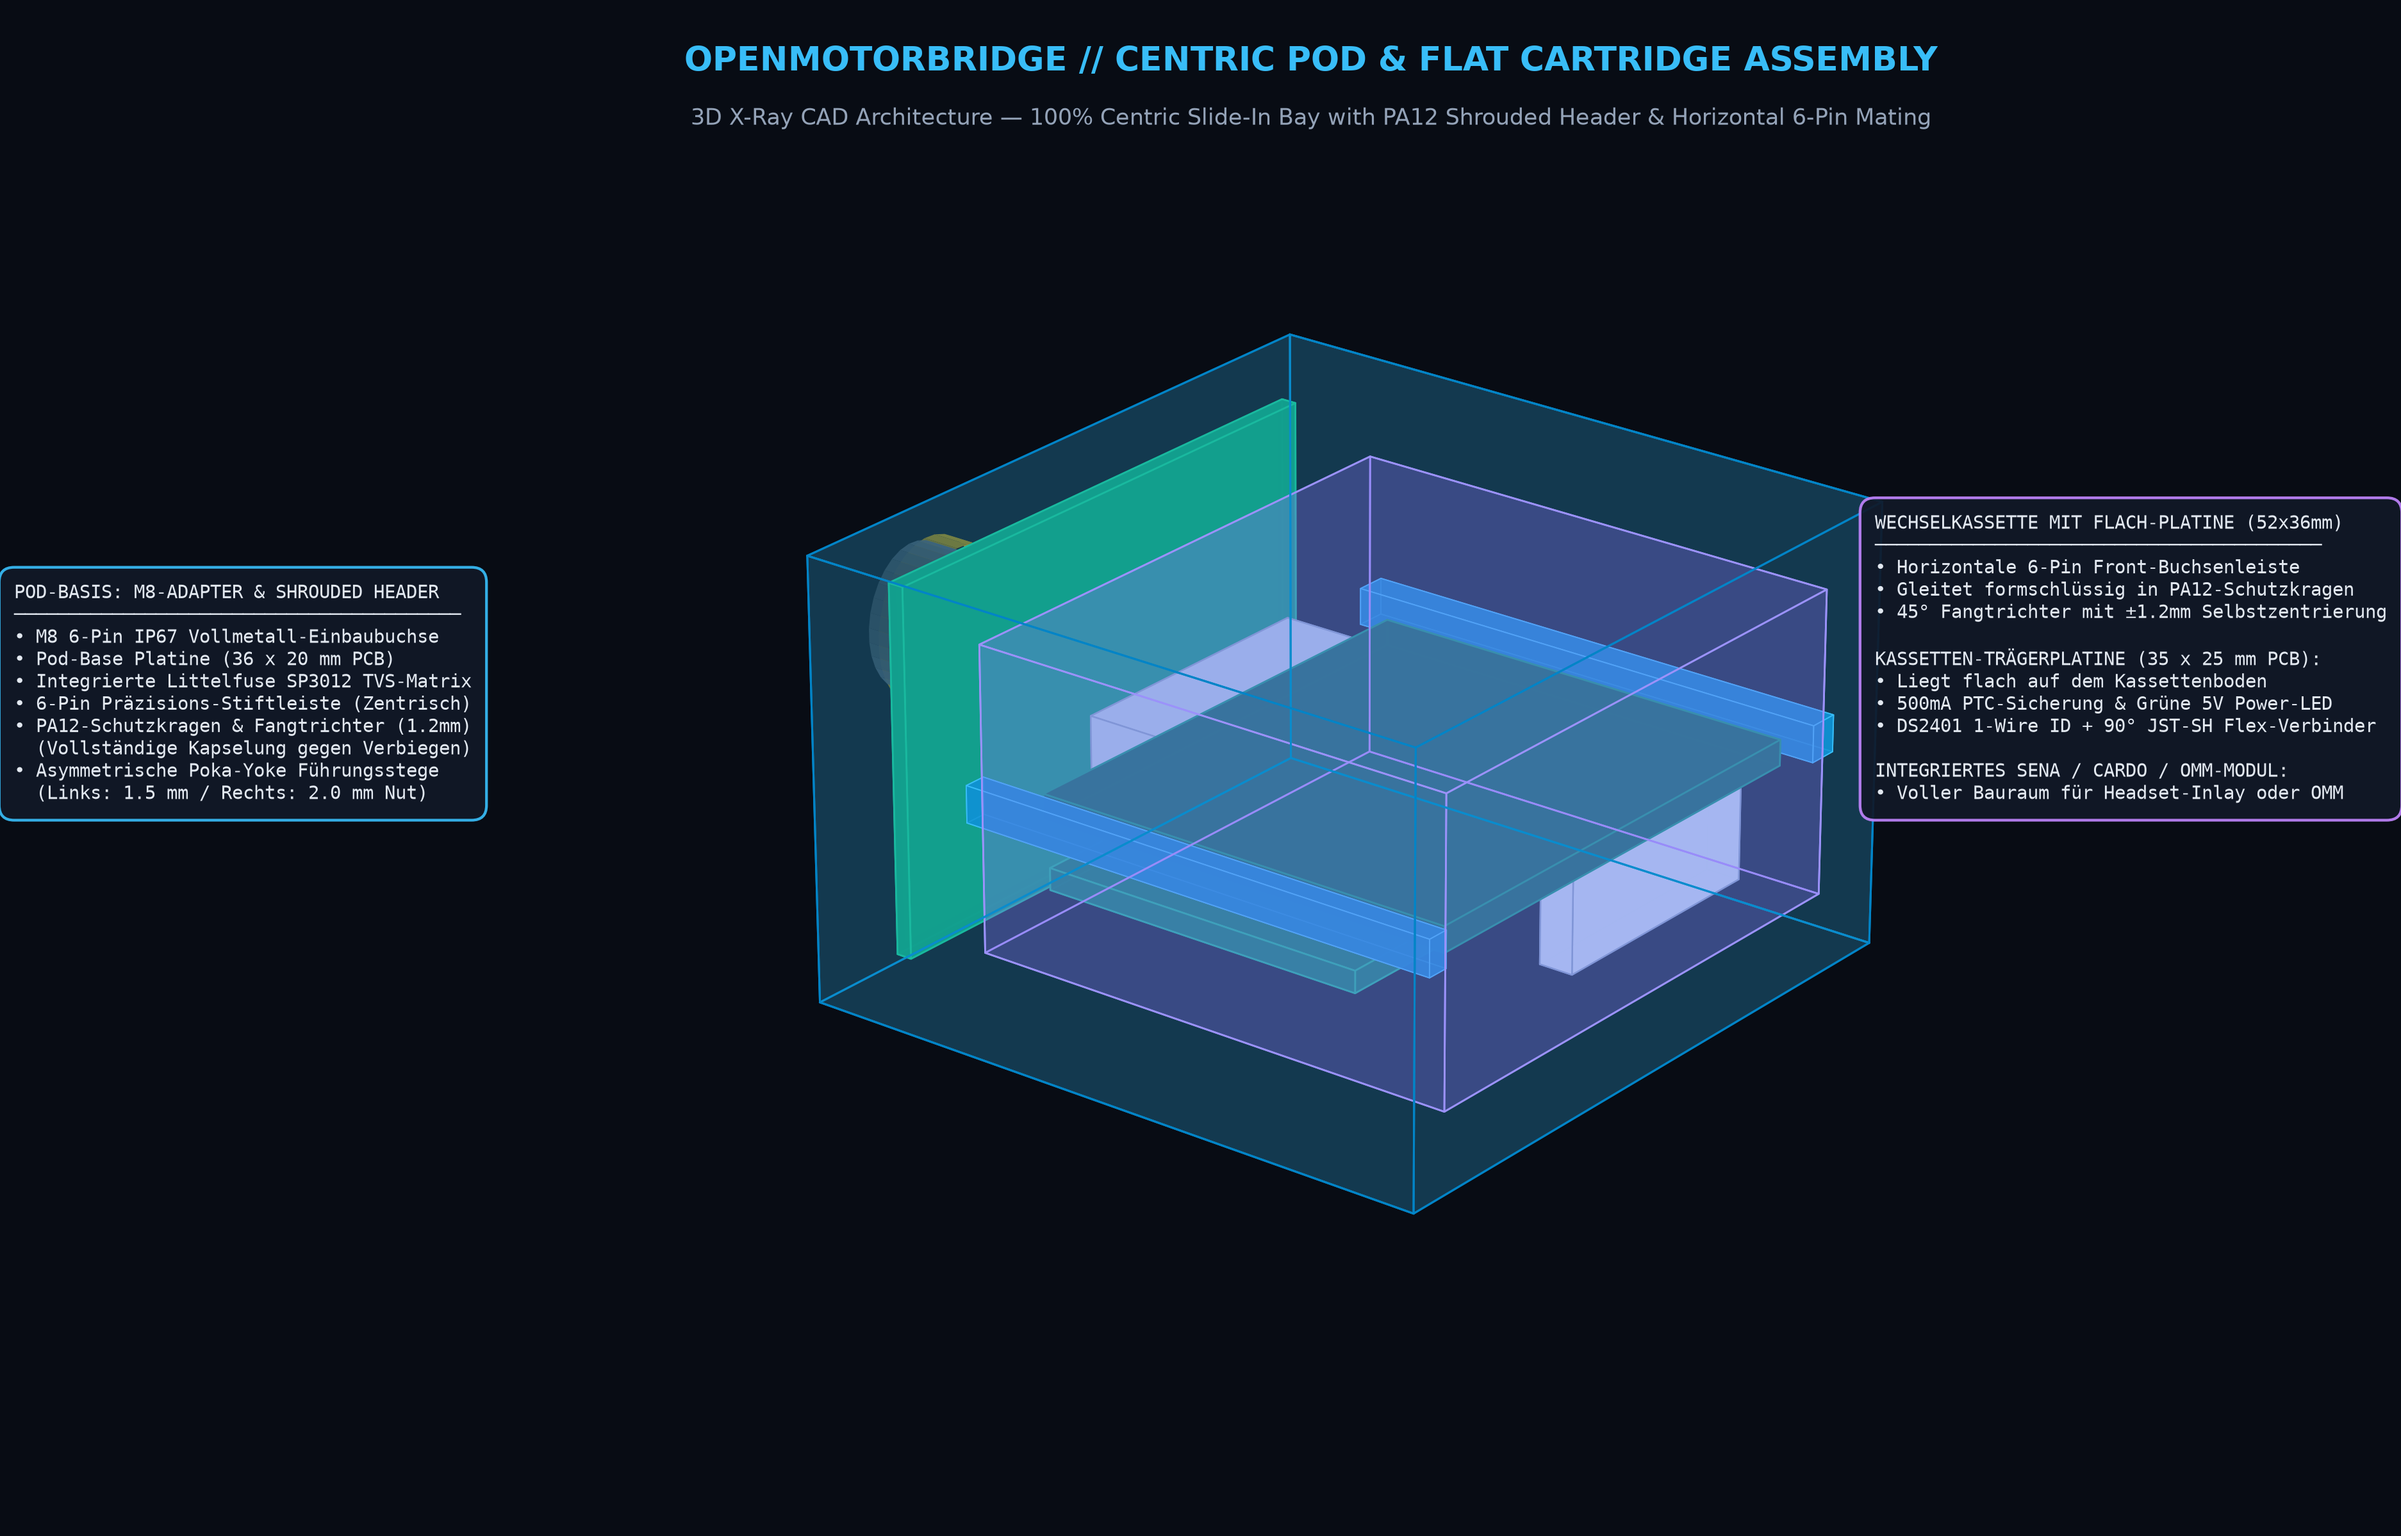
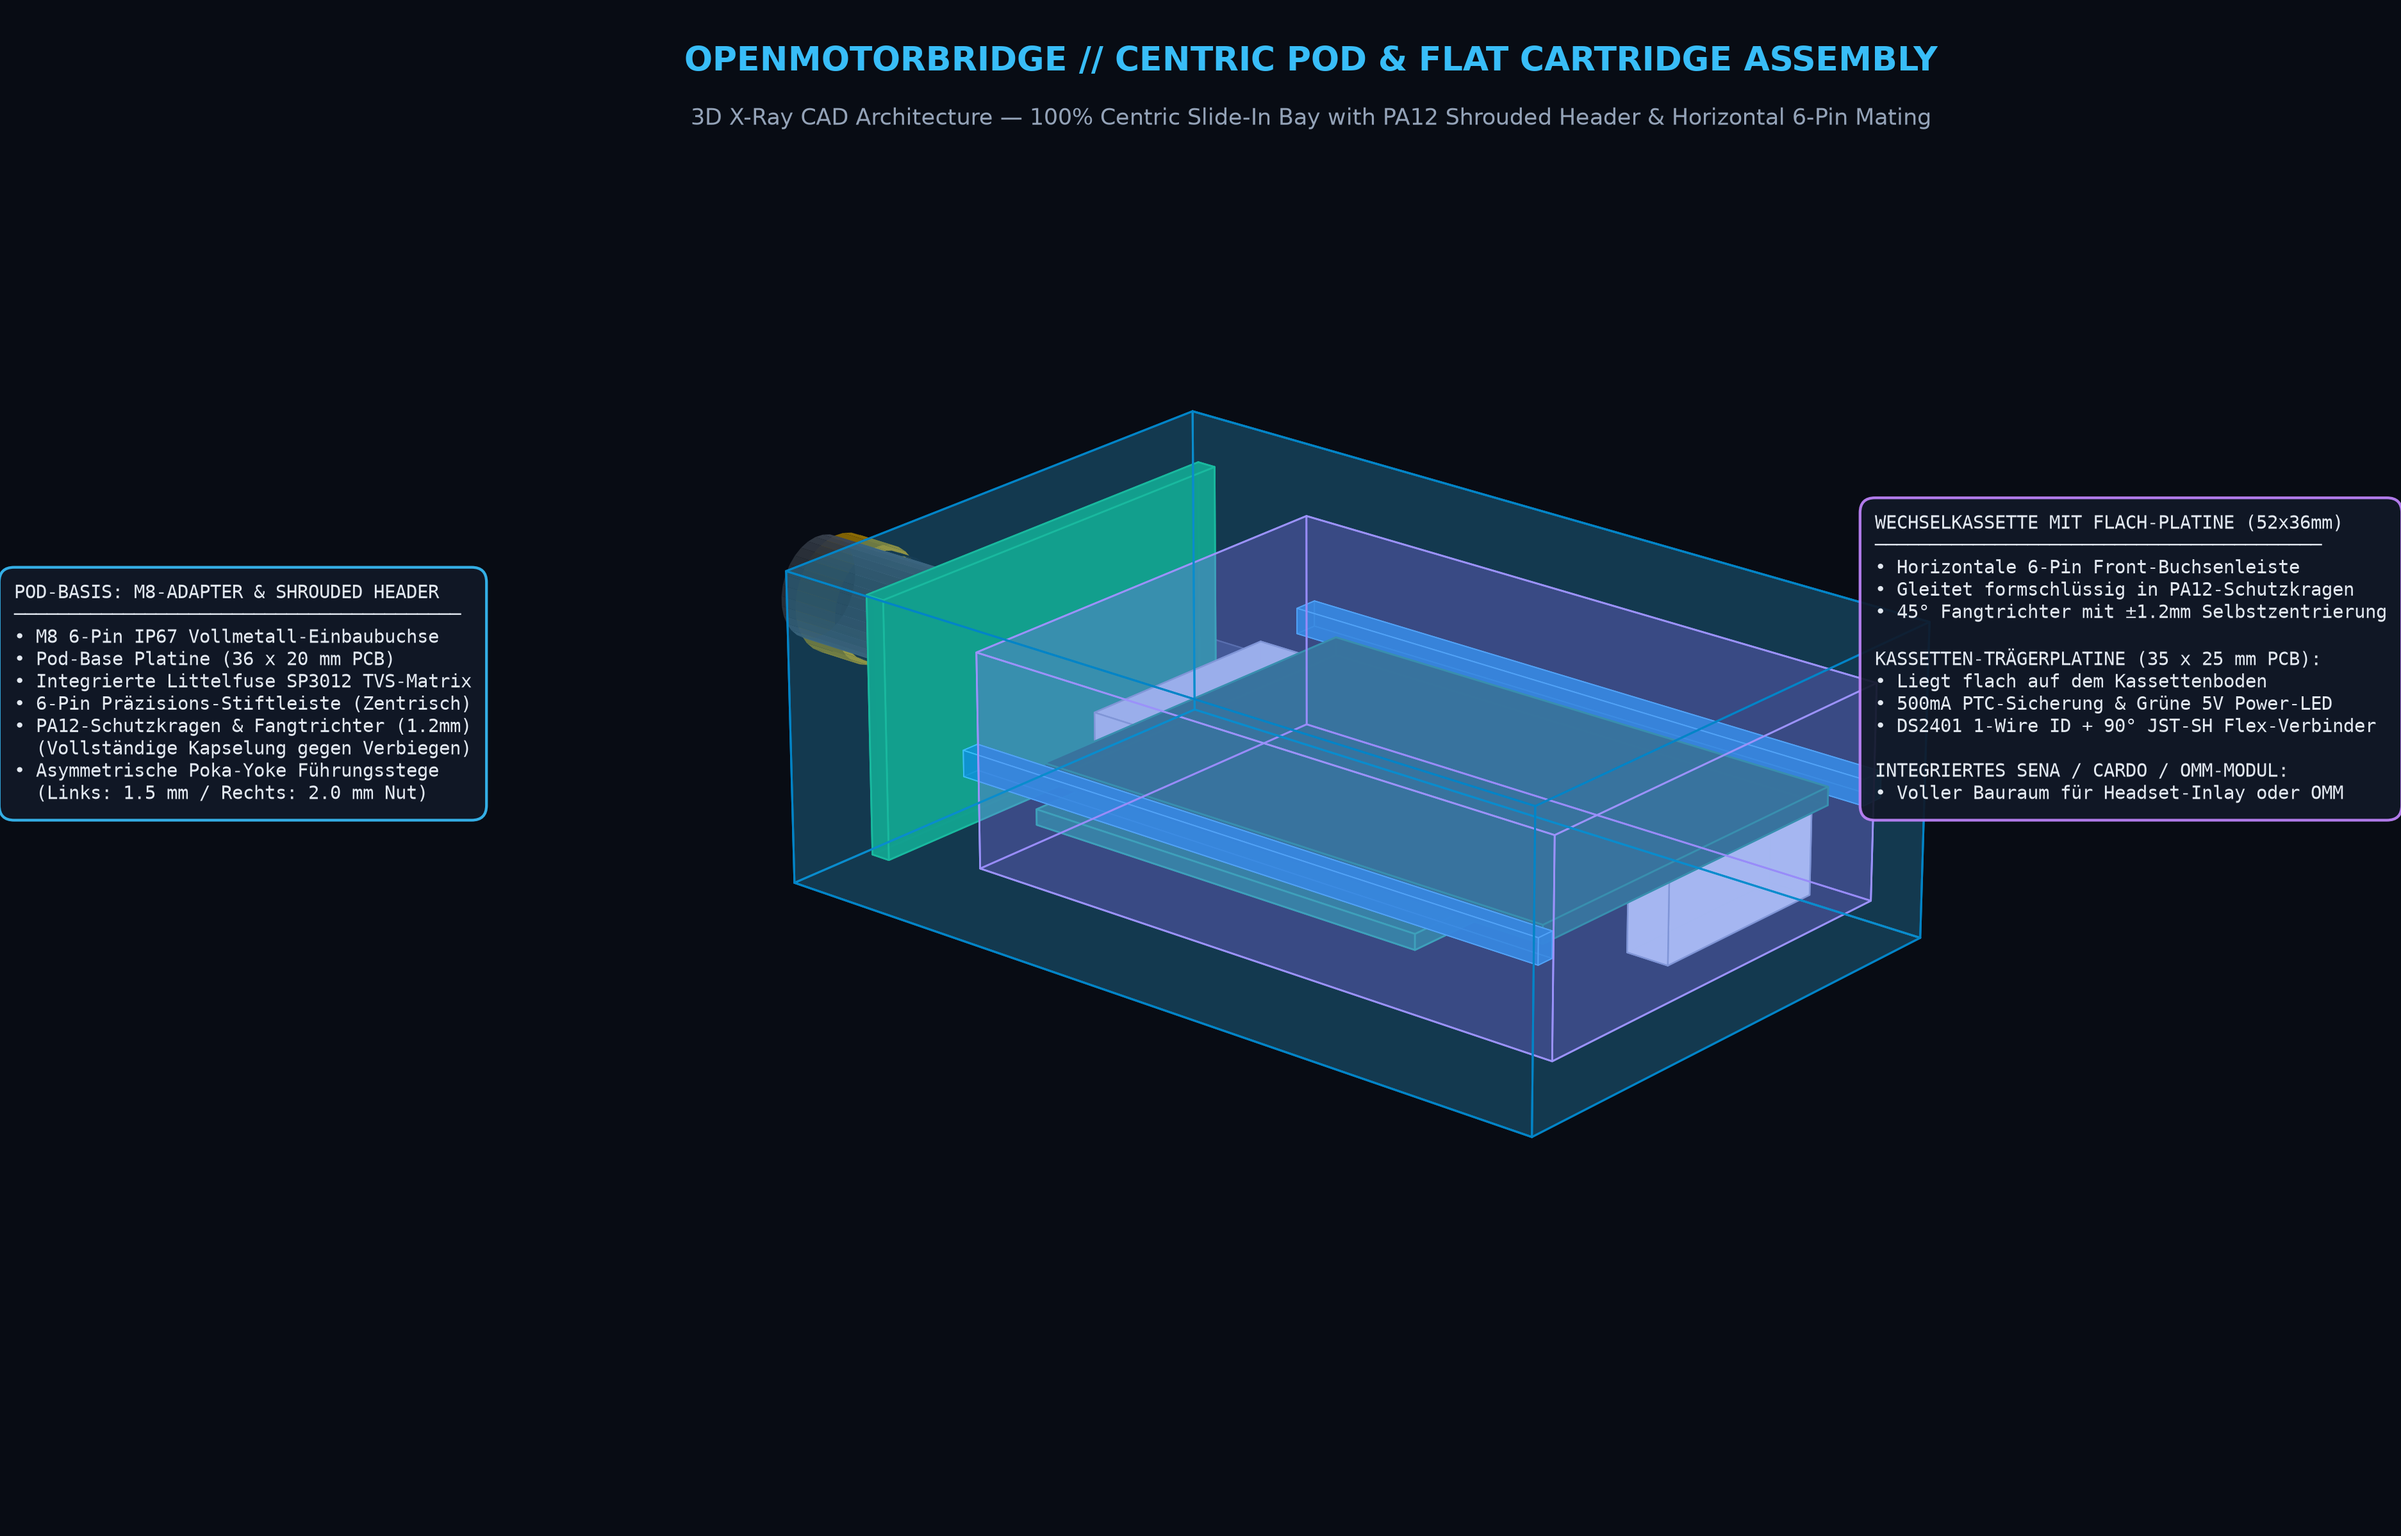
cad: correct 3D aspect ratio to true 1:1 physical dimensions (68x44x24mm)

Changed region(s): [[0.3122, 0.216, 0.8118, 0.8023]]

diff --git a/hardware/scripts/generate_pod_mechanical_cad.py b/hardware/scripts/generate_pod_mechanical_cad.py
@@ -154,11 +154,15 @@ def render_xray_assembly(output_png):
     draw_box(ax, 31.0, -8.0, -4.0, 3.5, 16.0, 8.0, color='#e2e8f0', alpha=0.95, edgecolor='#94a3b8', linewidth=0.8)
     draw_box(ax, 33.0, -5.0, -2.5, 2.0, 10.0, 5.0, color='#f59e0b', alpha=1.0, edgecolor='#d97706', linewidth=0.6)
 
-    # View angle setup (slanted isometric for maximum clarity)
-    ax.view_init(elev=24, azim=-52)
+    # View angle setup with TRUE PHYSICAL ASPECT RATIO (prevents square distortion)
+    ax.view_init(elev=22, azim=-50)
+    span_x = 42 - (-46) # 88 mm
+    span_y = 28 - (-28) # 56 mm
+    span_z = 18 - (-18) # 36 mm
     ax.set_xlim([-46, 42])
     ax.set_ylim([-28, 28])
     ax.set_zlim([-18, 18])
+    ax.set_box_aspect((span_x, span_y, span_z))
     ax.set_axis_off()
 
     # Title header
@@ -260,9 +264,13 @@ def render_exploded_view(output_png):
         ax.plot([-60, 56], [corner[0], corner[0]], [corner[1], corner[1]], color='#475569', linestyle='--', linewidth=0.7, alpha=0.6)
 
     ax.view_init(elev=20, azim=-50)
+    span_x = 58 - (-70) # 128 mm
+    span_y = 26 - (-26) # 52 mm
+    span_z = 18 - (-18) # 36 mm
     ax.set_xlim([-70, 58])
     ax.set_ylim([-26, 26])
     ax.set_zlim([-18, 18])
+    ax.set_box_aspect((span_x, span_y, span_z))
     ax.set_axis_off()
 
     fig.text(0.5, 0.95, "OPENMOTORBRIDGE // EXPLODED CENTRIC POD & CARTRIDGE ASSEMBLY", 
